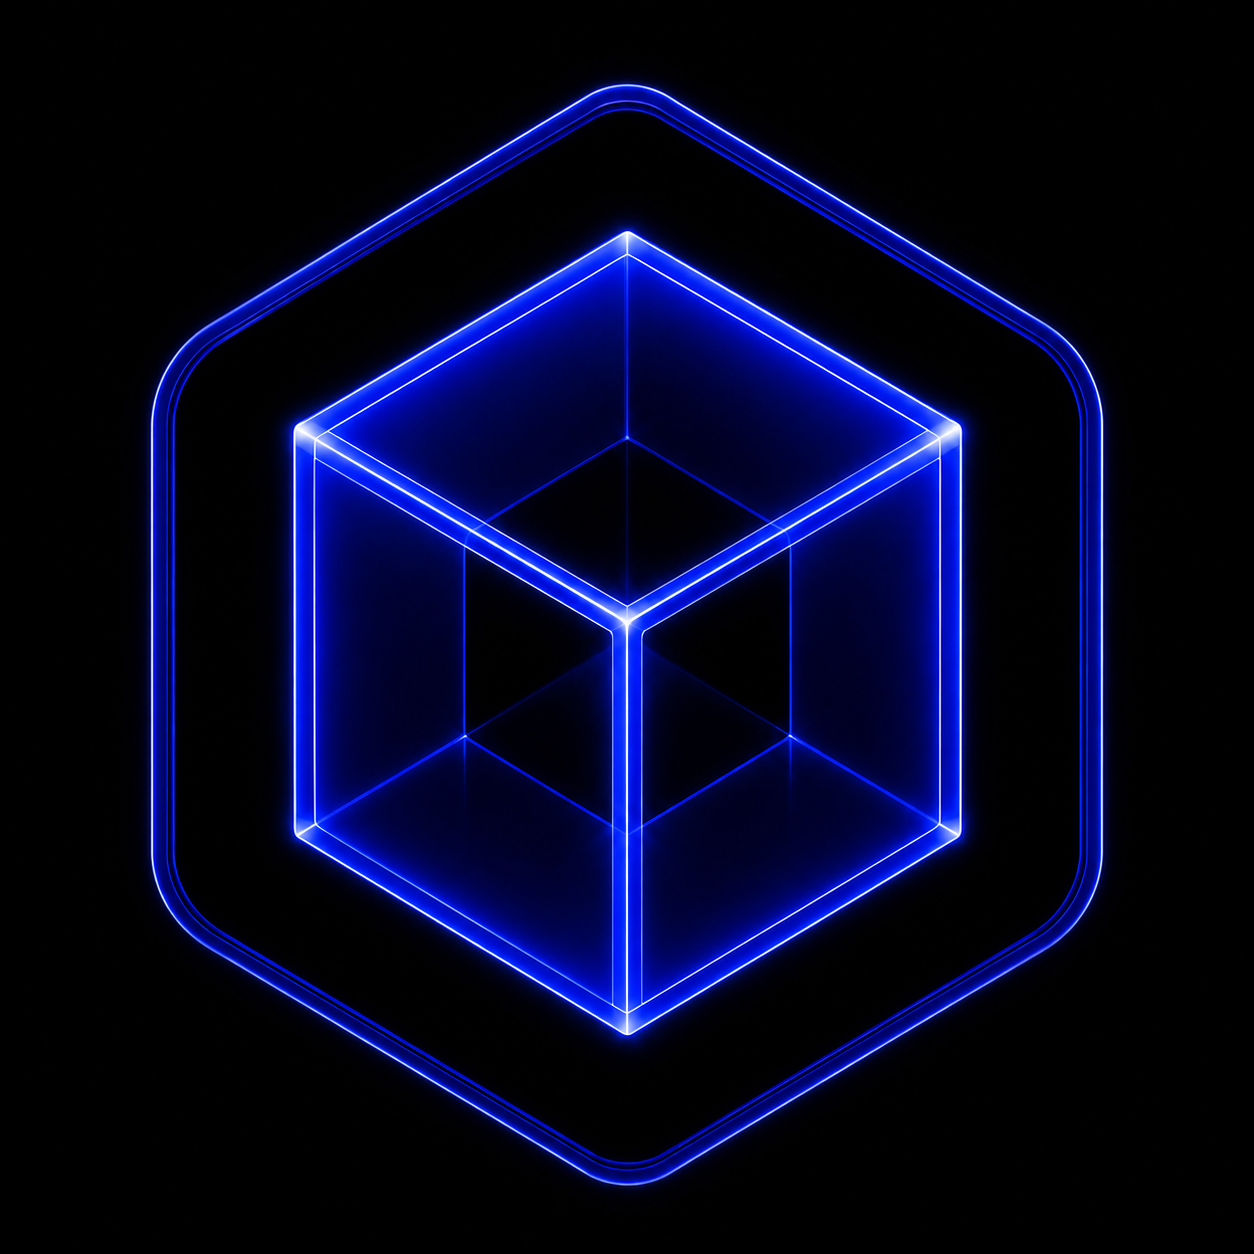
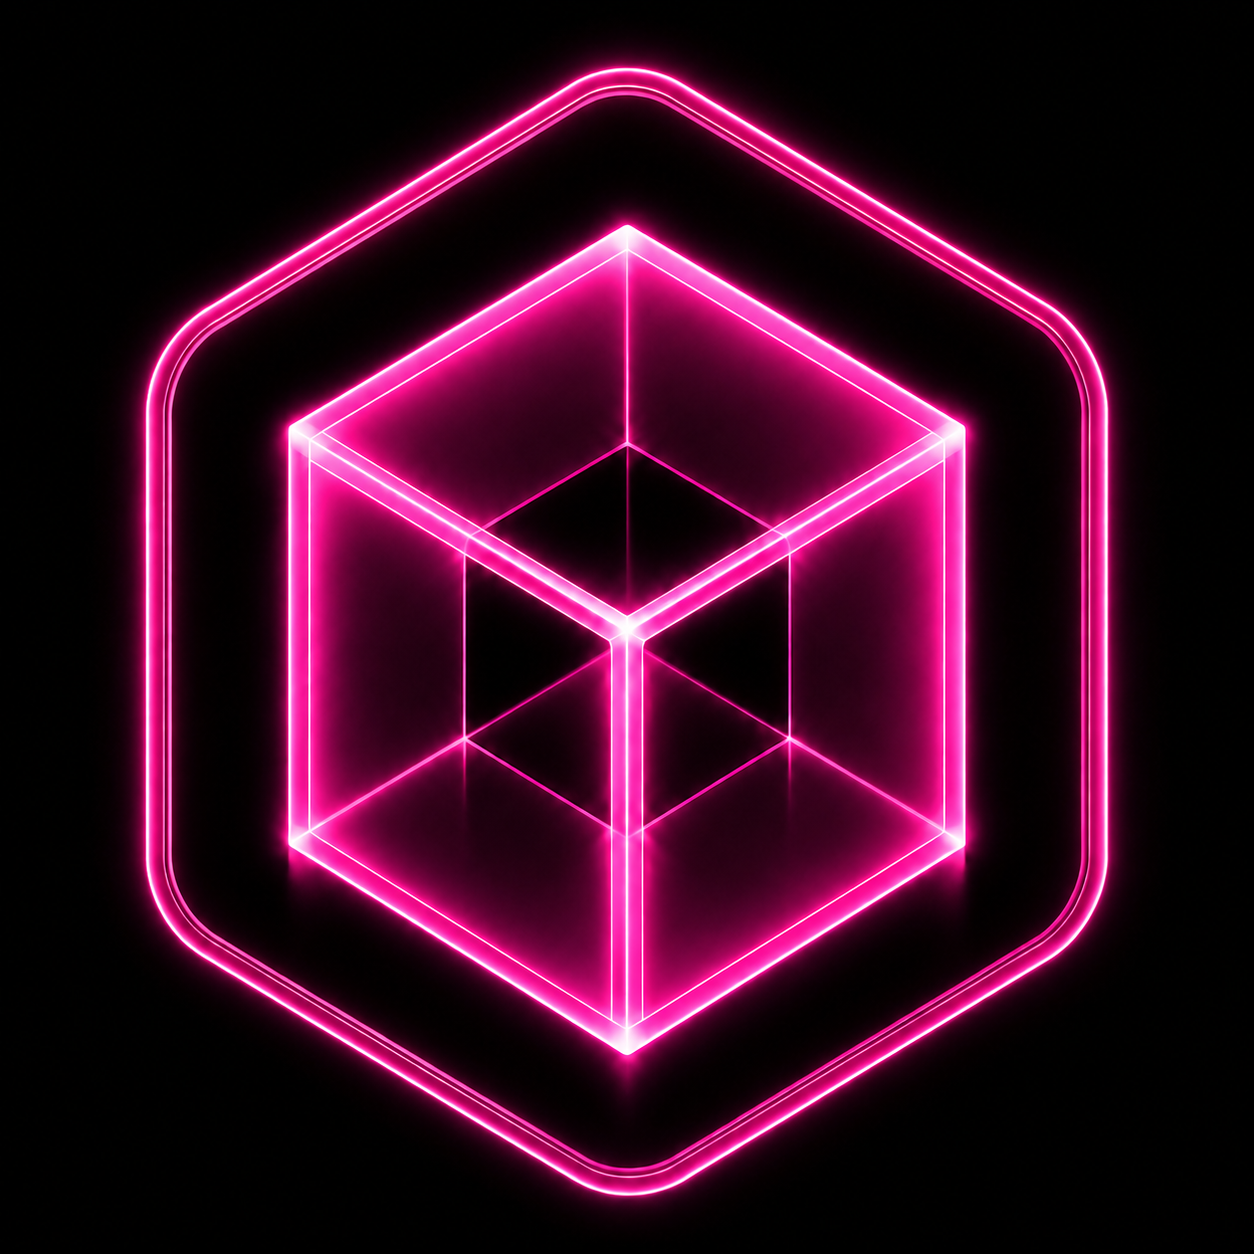
Mise à jour AXECUBE — 2026-08-08 14:45

diff --git a/axecube.js b/axecube.js
@@ -67,6 +67,10 @@ const CACHE_LOGO_VENTILO = empreinteFichier(path.join('assets', 'logo-ventilo.pn
 // pas toujours dans ce cas). Un redémarrage suffit donc à rafraîchir le cache pour
 // n'importe laquelle des 22 images.
 const CACHE_MACHINES = String(Date.now());
+// Même principe pour les logos de cube au centre du ventilateur (assets/cubes/) --
+// mêmes noms de fichiers que sur le classement en ligne (cube-p01.png..cube-p22.png),
+// pour pouvoir réutiliser directement les mêmes images sans les renommer.
+const CACHE_CUBES = String(Date.now());
 
 // --- Configuration visuelle éditable ---
 // Toutes les positions/tailles des éléments de la carte "machines" (page /machines),
@@ -4211,7 +4215,7 @@ charger();setInterval(charger,5000);
   /* Logo : enfant du ventilateur, donc tourne automatiquement avec lui (solidaire des pales).
      mix-blend-mode:screen fait disparaître son fond noir sans avoir besoin de détourage. */
   .logoVentilo{position:absolute;left:${cv.logoVentilo.left}%;top:${cv.logoVentilo.top}%;width:${cv.logoVentilo.width}%;aspect-ratio:1/1;
-    background-image:url('/assets/logo-ventilo.png?v=${CACHE_LOGO_VENTILO}');background-size:contain;background-repeat:no-repeat;
+    background-image:var(--logo-cube, url('/assets/logo-ventilo.png?v=${CACHE_LOGO_VENTILO}'));background-size:contain;background-repeat:no-repeat;
     mix-blend-mode:screen}
   @keyframes tournerVentilo{from{transform:rotate(0deg)}to{transform:rotate(360deg)}}
   @keyframes ralentirVentilo{from{transform:rotate(0deg)}to{transform:rotate(1080deg)}}
@@ -4443,7 +4447,7 @@ const NOMS_CUBE=[
   'Multi-Gemmes I','Multi-Gemmes II'
 ];
 const COULEURS_CUBE=[
-  '#8cff2e','#2e9bff','#ff3b3b','#b83bff','#2effe0','#ff9c2e','#ff2ea0','#fd5f00',
+  '#8cff2e','#2e9bff','#0a278b','#fc33b4','#2effe0','#ff9c2e','#ff2ea0','#fd5f00',
   '#2effb0','#8c2eff','#ffb02e','#ff2ee0','#c8ff2e',
   '#e8f0ff',
   'rainbow','rainbow',
@@ -4459,13 +4463,14 @@ function niveauDe(bestDiff){
   }
   return niveau;
 }
-// Renvoie {couleur, nom, niveau, rainbow, imageCarte} pour un bestDiff donné. Sous le
-// niveau 1 (< 200 de difficulté), on reste sur le vert AXECUBE et la carte par défaut --
-// pas de "faux cube".
+// Renvoie {couleur, nom, niveau, rainbow, imageCarte, imageLogo} pour un bestDiff donné.
+// Sous le niveau 1 (< 200 de difficulté), on reste sur le vert AXECUBE, la carte et le
+// logo par défaut -- pas de "faux cube".
 const CACHE_MACHINES='${CACHE_MACHINES}';
+const CACHE_CUBES='${CACHE_CUBES}';
 function infosCube(bestDiff){
   const n=niveauDe(bestDiff);
-  if(n<1) return {couleur:'#96f01f', nom:null, niveau:0, rainbow:false, imageCarte:null};
+  if(n<1) return {couleur:'#96f01f', nom:null, niveau:0, rainbow:false, imageCarte:null, imageLogo:null};
   const c=COULEURS_CUBE[n-1];
   const numero=String(n).padStart(2,'0');
   return {
@@ -4473,7 +4478,8 @@ function infosCube(bestDiff){
     nom:NOMS_CUBE[n-1],
     niveau:n,
     rainbow: c==='rainbow',
-    imageCarte:'/assets/machines/niveau-'+numero+'.png?v='+CACHE_MACHINES
+    imageCarte:'/assets/machines/niveau-'+numero+'.png?v='+CACHE_MACHINES,
+    imageLogo:'/assets/cubes/cube-p'+numero+'.png?v='+CACHE_CUBES
   };
 }
 document.getElementById('retour').href='/details'+Q;
@@ -4510,7 +4516,7 @@ function carteComplete(m, estMoi, idx, ventiloClasse){
   const page=pageActuelle.get(cle)||0;
   const cube=infosCube(m.bestDiff||0);
   const nomCubeHtml=cube.nom?'<span class="nomCube">'+cube.nom+'</span>':'';
-  const imgStyle=cube.imageCarte?('--carte-image:url(\\''+cube.imageCarte+'\\');'):'';
+  const imgStyle=(cube.imageCarte?('--carte-image:url(\\''+cube.imageCarte+'\\');'):'')+(cube.imageLogo?('--logo-cube:url(\\''+cube.imageLogo+'\\');'):'');
   return '<div class="carteMachine'+(enLigne?'':' hors-ligne')+(cube.rainbow?' rainbow-tier':'')+'"'+(idx!=null?' data-idx="'+idx+'"':'')+' style="--couleur-cube:'+cube.couleur+';'+imgStyle+'">'
     +'<div class="fondNoir"></div>'
     +'<div class="ventilo'+(ventiloClasse?' '+ventiloClasse:'')+'"><div class="logoVentilo"></div></div>'+'<button type="button" class="boutonVentilo" onclick="toggleVentilo(event)" title="Arr\u00eater/relancer le ventilateur (visuel)" aria-label="Basculer le ventilateur"></button>'
@@ -4557,7 +4563,7 @@ function carteLegere(m, idx, ventiloClasse){
   const page=pageActuelle.get(cle)||0;
   const cube=infosCube(m.bestDiff||0);
   const nomCubeHtml=cube.nom?'<span class="nomCube">'+cube.nom+'</span>':'';
-  const imgStyle=cube.imageCarte?('--carte-image:url(\\''+cube.imageCarte+'\\');'):'';
+  const imgStyle=(cube.imageCarte?('--carte-image:url(\\''+cube.imageCarte+'\\');'):'')+(cube.imageLogo?('--logo-cube:url(\\''+cube.imageLogo+'\\');'):'');
   return '<div class="carteMachine'+(enLigne?'':' hors-ligne')+(cube.rainbow?' rainbow-tier':'')+'"'+(idx!=null?' data-idx="'+idx+'"':'')+' style="--couleur-cube:'+cube.couleur+';'+imgStyle+'">'
     +'<div class="fondNoir"></div>'
     +'<div class="ventilo'+(ventiloClasse?' '+ventiloClasse:'')+'"><div class="logoVentilo"></div></div>'+'<button type="button" class="boutonVentilo" onclick="toggleVentilo(event)" title="Arr\u00eater/relancer le ventilateur (visuel)" aria-label="Basculer le ventilateur"></button>'
@@ -5091,6 +5097,26 @@ function fmtD(d){if(!d)return'—';if(d>=1e12)return(d/1e12).toFixed(2)+' T';if(
           return;
         }
         const cheminDefaut = path.join(__dirname, 'assets', 'bitaxe-board.png');
+        fs.readFile(cheminDefaut, (err2, data2) => {
+          if (err2) { res.writeHead(404); res.end(); return; }
+          res.writeHead(200, { 'Content-Type': 'image/png', 'Cache-Control': 'public, max-age=86400' });
+          res.end(data2);
+        });
+      });
+      return;
+    }
+    if (/^\/assets\/cubes\/cube-p(\d{2})\.png$/.test(url.pathname)) {
+      // Le logo au centre du ventilateur, par palier -- mêmes noms de fichiers que sur
+      // le classement en ligne. Repli sur le logo vert fixe si ce palier n'a pas encore
+      // son image dédiée.
+      const cheminCube = path.join(__dirname, 'assets', 'cubes', path.basename(url.pathname));
+      fs.readFile(cheminCube, (err, data) => {
+        if (!err) {
+          res.writeHead(200, { 'Content-Type': 'image/png', 'Cache-Control': 'public, max-age=86400' });
+          res.end(data);
+          return;
+        }
+        const cheminDefaut = path.join(__dirname, 'assets', 'logo-ventilo.png');
         fs.readFile(cheminDefaut, (err2, data2) => {
           if (err2) { res.writeHead(404); res.end(); return; }
           res.writeHead(200, { 'Content-Type': 'image/png', 'Cache-Control': 'public, max-age=86400' });

diff --git a/leaderboard-netlify/public/recompenses.html b/leaderboard-netlify/public/recompenses.html
@@ -241,7 +241,7 @@ function niveauDe(bestDiff){
 // Couleur du halo par cube (même ordre que NOMS_CUBE) -- 'rainbow' = halo multicolore.
 // Ajuste librement ces valeurs pour matcher exactement la couleur réelle de tes images.
 const COULEURS_CUBE=[
-  '#8cff2e','#2e9bff','#ff3b3b','#b83bff','#2effe0','#ff9c2e','#ff2ea0','#fd5f00',
+  '#8cff2e','#2e9bff','#0a278b','#fc33b4','#2effe0','#ff9c2e','#ff2ea0','#fd5f00',
   '#2effb0','#8c2eff','#ffb02e','#ff2ee0','#c8ff2e',
   '#e8f0ff',
   'rainbow','rainbow',
